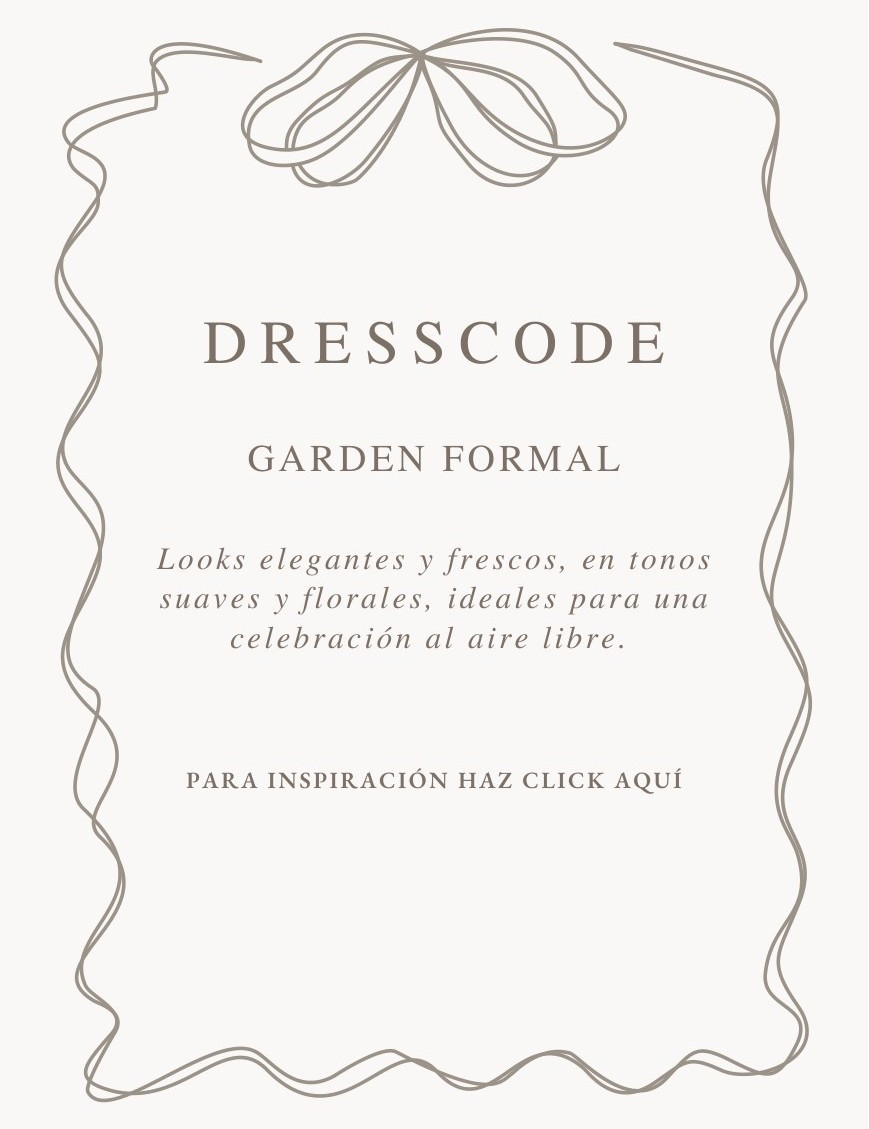
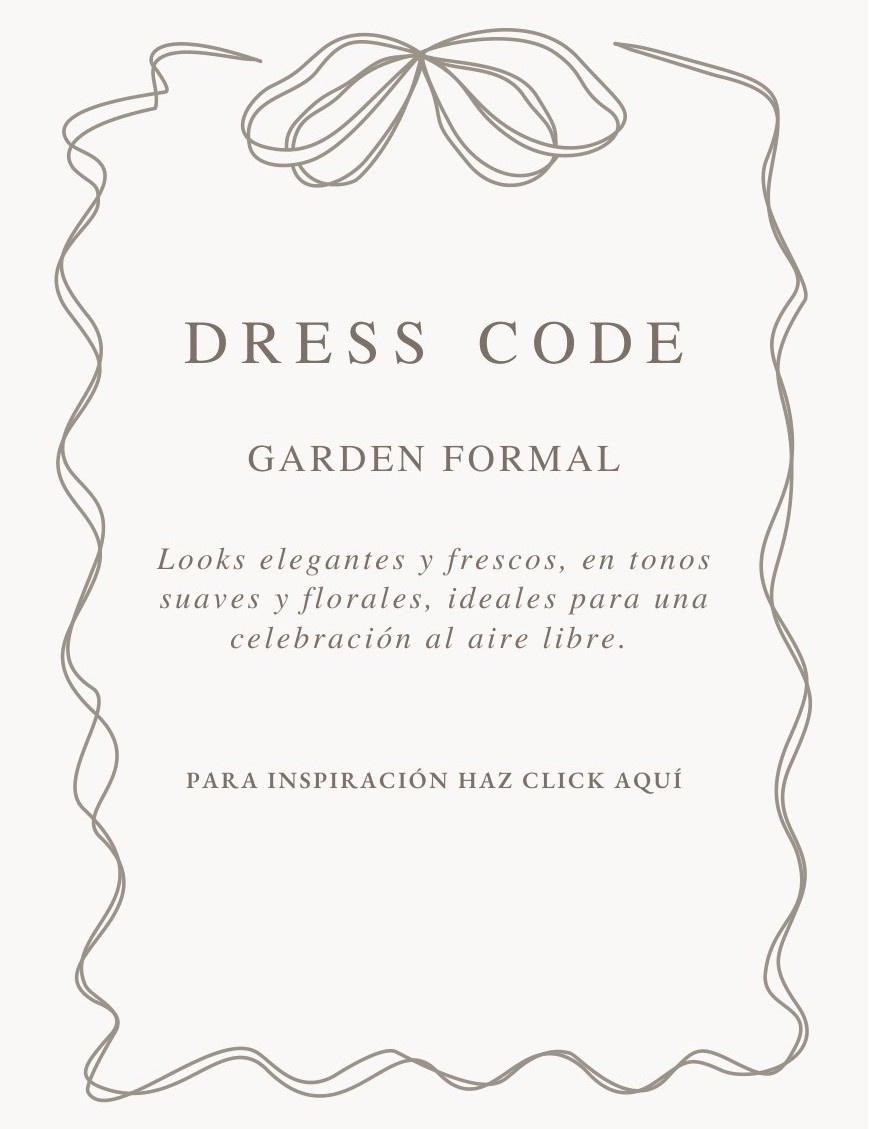
fix: 16:30 en TeX Gyre Termes, DRESS CODE separado, más aire entre páginas

Changed region(s): [[0.2175, 0.279, 0.7768, 0.341]]

diff --git a/index.html b/index.html
@@ -31,6 +31,8 @@ img{max-width:100%;display:block}
 #invitation.show{opacity:1;max-height:none;overflow:visible}
 .page{position:relative;display:block;container-type:inline-size}
 .page img{width:100%;display:block}
+/* separación entre páginas (aire visual) */
+.page.sep{margin-top:clamp(30px,7.5vw,50px)}
 
 /* cuenta regresiva en HTML (pág 2) con segundos */
 .cdpage{background:var(--cream);text-align:center;padding:60px 12px 50px}
@@ -103,30 +105,30 @@ img{max-width:100%;display:block}
       <div class="cd-foot">Para nuestro gran día</div>
     </section>
 
-    <section class="page reveal"><img src="img/pag3.jpg" alt="Con la bendición de Dios y de nuestros padres"></section>
+    <section class="page reveal sep"><img src="img/pag3.jpg" alt="Con la bendición de Dios y de nuestros padres"></section>
 
     <!-- 4 · Ceremonia -->
-    <section class="page reveal" id="p4">
+    <section class="page reveal sep" id="p4">
       <img src="img/pag4.jpg" alt="Ceremonia · Catedral de Villarrica · 16:30 hrs">
       <a class="hot" href="https://www.google.com/maps/place/catedral+de+villarrica/data=!4m2!3m1!1s0x9614623cc6a49cd3:0x51a614f02d4a52a3" target="_blank" rel="noopener" aria-label="Ver ubicación Catedral de Villarrica"></a>
     </section>
 
     <!-- 5 · Recepción -->
-    <section class="page reveal" id="p5">
+    <section class="page reveal sep" id="p5">
       <img src="img/pag5.jpg" alt="Recepción · Hotel El Parque · 18:00 hrs">
       <a class="hot" href="https://www.google.com/maps/search/?api=1&query=Hotel%20el%20Parque%2C%20Villarrica" target="_blank" rel="noopener" aria-label="Ver ubicación Hotel El Parque"></a>
     </section>
 
-    <section class="page reveal"><img src="img/pag6.jpg" alt="Itinerario del día"></section>
+    <section class="page reveal sep"><img src="img/pag6.jpg" alt="Itinerario del día"></section>
 
     <!-- 7 · Dress code -->
-    <section class="page reveal" id="p7">
+    <section class="page reveal sep" id="p7">
       <img src="img/pag7.jpg" alt="Dress code · Garden Formal">
       <a class="hot" href="galeria.html" target="_blank" rel="noopener" aria-label="Inspiración dress code"></a>
     </section>
 
     <!-- 8 · Mesa de regalos -->
-    <section class="page reveal gifts" id="p8">
+    <section class="page reveal gifts sep" id="p8">
       <img src="img/pag8.jpg" alt="Mesa de regalos · ¿Qué regalarnos?">
       <div class="gift-card">
         <h3>Lista de Novios · Paris</h3>
